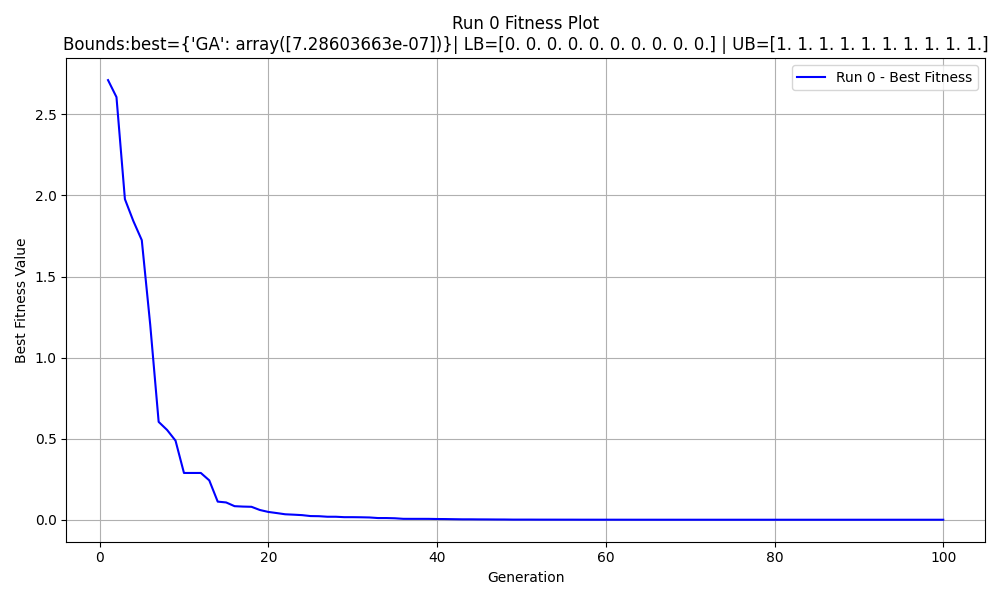
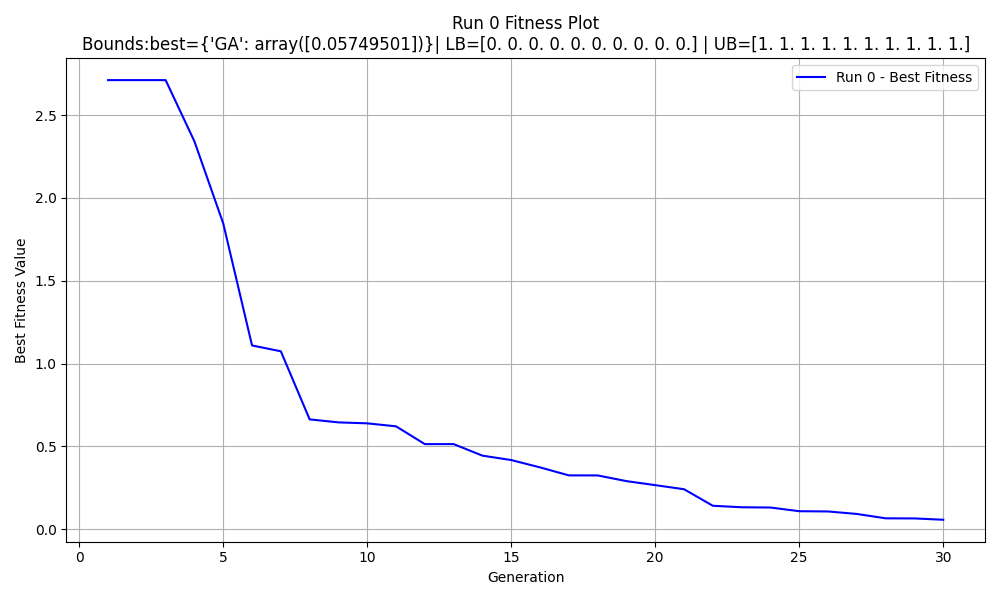
Fixed the bug and model is now trained from combined data from prev iterations

diff --git a/genticalgorithm.py b/genticalgorithm.py
@@ -9,10 +9,11 @@ from pymoo.optimize import minimize
 from pymoo.core.callback import Callback
 from plots import plot_combined_fitness, plot_fitness  # Ensure `plot_combined_fitness` is implemented correctly
 from problem_config import get_problem  # Import the problem configuration
+from XAI import processData
 
 # Initialize configurable parameters
-pop_size = 100  # Population size
-n_gen = 100  # Number of generations
+pop_size = 30  # Population size
+n_gen = 30  # Number of generations
 
 
 class LogCallback(Callback):
@@ -36,7 +37,6 @@ class LogCallback(Callback):
                 "Satisfied Constraints": int(np.sum(constraints[i] <= 0)),  # Count satisfied constraints
             })
 
-
 # Function to perform optimization with a specified algorithm
 def run_optimization(algorithm_name, algorithm, problem):
     callback = LogCallback()
@@ -52,7 +52,7 @@ def run_optimization(algorithm_name, algorithm, problem):
 
 
 # Function to write optimization results to a CSV file
-def save_to_csv(data, algorithm_name):
+def save(data, algorithm_name):
     fieldnames = ["Generation", "Solution", "Fitness", "Constraints", "Satisfied Constraints"]
     file_name = f"C:/Users/vyshn/OneDrive/Desktop/optimization_log_{algorithm_name}.csv"
     with open(file_name, mode="w", newline="") as file:
@@ -62,24 +62,48 @@ def save_to_csv(data, algorithm_name):
     print(f"Data has been saved to {file_name}")
 
 
-# Main function
-from XAI import processData
+def save_to_csv(data, algorithm_name, iteration):
+    fieldnames = ["Generation", "Solution", "Fitness", "Constraints", "Satisfied Constraints"]
+    file_name_append = f"C:/Users/vyshn/OneDrive/Desktop/append_log_{algorithm_name}_.csv"
+
+    # Check if the file already exists and is non-empty
+    try:
+        with open(file_name_append, mode="r") as file:
+            file_is_empty = file.readline() == ''
+    except FileNotFoundError:
+        file_is_empty = True  # File doesn't exist yet
+
+    # Open the file in append mode and write data
+    with open(file_name_append, mode="a", newline="") as file:
+        writer = csv.DictWriter(file, fieldnames)
+        if file_is_empty:  # Write header only if the file is empty
+            writer.writeheader()
+        writer.writerows(data)
+
+    print(f"Data has been appended to {file_name_append}")
+
+    file_name = f"C:/Users/vyshn/OneDrive/Desktop/optimization_log_{algorithm_name}_{iteration}.csv"
+    with open(file_name, mode="w", newline="") as file:
+        writer = csv.DictWriter(file, fieldnames)
+        writer.writeheader()
+        writer.writerows(data)
+    print(f"Data has been saved to {file_name}")
+
 
 
 def main():
     problem_name = "Ackley"  # Change this to "G1", "G2", etc., as needed
     # Initial problem setup
-    lb = mainlb = np.array([0, 0, 0, 0, 0, 0, 0, 0, 0, 0], dtype=float)
-    ub = mainub =  np.array([1, 1, 1, 1, 1, 1, 1, 1, 1, 1], dtype=float)  # Start with default bounds for the problem
-    max_iterations = 2  # Number of times to run the process
-    csv_path = "C:/Users/vyshn/OneDrive/Desktop/optimization_log_GA.csv"
+    lb = mainlb = np.array([0]*10, dtype=float)
+    ub = mainub =  np.array([1]*10, dtype=float)  # Start with default bounds for the problem
+    max_iterations = 5  # Number of times to run the process
+    csv_path =  "C:\\Users\\vyshn\\OneDrive\\Desktop\\append_log_GA_.csv"
+
     combined_best_fitness = {}
     for iteration in range(max_iterations):
         print(f"Starting iteration {iteration + 1}/{max_iterations}...")
-
         # Get problem instance with updated bounds
         problem = get_problem(problem_name, lb=lb, ub=ub)
-
         # Define the algorithms to test
         algorithms = {
             "GA": GA(pop_size=pop_size),
@@ -106,7 +130,8 @@ def main():
             print(f"Running optimization with {algorithm_name} on {problem_name}...")
             res, data, best = run_optimization(algorithm_name, algorithm, problem)
             # Save results to CSV
-            save_to_csv(data, algorithm_name)
+            save_to_csv(data, algorithm_name, iteration)
+
             # Store data for plotting
             all_data[algorithm_name] = data
             best_fitness[algorithm_name] = best
@@ -117,7 +142,7 @@ def main():
             print(f"Function value: {res.F}")
 
         # Plot combined fitness results (optional after each iteration)
-        plot_fitness(best_fitness, overall_best_fitness, lb, ub, iteration)
+        plot_fitness(best_fitness, overall_best_fitness, lb, ub, iteration, n_gen)
 
         # Use the generated CSV to get recommendations for updating bounds
         print(f"Processing CSV data from {csv_path} for iteration {iteration + 1}...")
@@ -127,19 +152,19 @@ def main():
         lb, ub = update_bounds(topKFeatureDictionary, lb, ub, mainlb, mainub )
 
         print(f"Updated bounds for next iteration: lb = {lb}, ub = {ub}")
-    plot_combined_fitness(combined_best_fitness)
+    plot_combined_fitness(combined_best_fitness, n_gen)
 
 def update_bounds(feature_dict, lb, ub, main_lb, main_ub):
     for feature, value in feature_dict.items():
         if value < 0:  # Negative value: Increase lower bound by |value|%
-            increment = abs(value) * lb[feature]
+            increment = (abs(value)/10) * lb[feature]
             new_lb = lb[feature] + increment
             # Check if the new lb exceeds the main upper bound
             if new_lb <= main_ub[feature]:
                 lb[feature] = new_lb
             # Otherwise, keep the old value
         elif value > 0:  # Positive value: Decrease upper bound by |value|%
-            decrement = value * ub[feature]
+            decrement = (abs(value)/10) * ub[feature]
             new_ub = ub[feature] - decrement
             # Check if the new ub goes below the main lower bound
             if new_ub >= main_lb[feature] and new_ub <= main_ub[feature]:

diff --git a/plots.py b/plots.py
@@ -2,7 +2,7 @@ import os
 import matplotlib.pyplot as plt
 
 def plot_fitness(
-    min_fitness,best, lb, ub, iteration, save_dir="C:/Users/vyshn/PycharmProjects/EA-XAI/GA_XAI_plots",
+    min_fitness,best, lb, ub, iteration, n_gen, save_dir="C:/Users/vyshn/PycharmProjects/EA-XAI/GA_XAI_plots",
 ):
     """
     Plots fitness graphs for each run separately and also combines sequential fitness across all runs.
@@ -13,7 +13,7 @@ def plot_fitness(
     plt.figure(figsize=(10, 6))
     for algorithm_name, fitness_values in min_fitness.items():
         plt.plot(
-            list(range(1, 101)),
+            list(range(1, n_gen+1)),
             fitness_values,
             label=f"Run {iteration} - Best Fitness",
             color="blue"
@@ -39,7 +39,7 @@ def plot_fitness(
 
 
 
-def plot_combined_fitness(combined_data):
+def plot_combined_fitness(combined_data, n_gen):
     """
     Combines sequential fitness data across all runs into a single plot for comparison,
     with each run's fitness plotted in a separate color but the same generation range (1 to 100).
@@ -49,7 +49,7 @@ def plot_combined_fitness(combined_data):
 
     # Loop over each run
     for iteration, fitness_values in combined_data.items():
-        x_values = list(range(1, 101))  # x-values for generations (1 to 100 for each run)
+        x_values = list(range(1, n_gen+1))  # x-values for generations (1 to 100 for each run)
 
         # Plot the fitness values for each run, but all on the same x-axis (1 to 100)
         plt.plot(x_values, fitness_values, label=f"Run {iteration}", color=colors[iteration % len(colors)])

diff --git a/problem_config.py b/problem_config.py
@@ -1,10 +1,16 @@
-from pymoo.problems.single import Ackley, G1, G2
+from pymoo.problems.single import Ackley, G1, G2, Schwefel
 import numpy as np
 
 #from my_custom_problem import MyCustomProblem  # Import your custom problem class
 def get_problem(problem_name, lb, ub):
     if problem_name == "Ackley":
         problem = Ackley()
+        problem.n_var = 10
+        problem.xl = lb
+        problem.xu = ub
+
+    elif problem_name == "Schwefel":
+        problem = Schwefel()
         problem.n_var = 10
         problem.xl = lb
         problem.xu = ub
